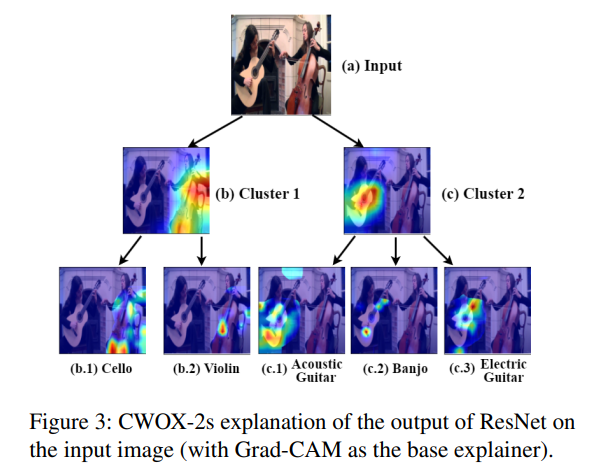
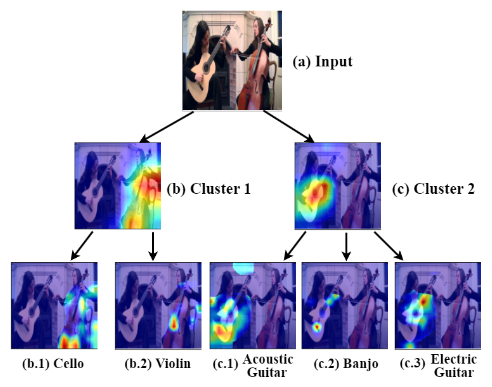
Images aligned

diff --git a/ml.html b/ml.html
@@ -109,23 +109,37 @@
         <div class="main-article">
             <h4>Contrasive Explanations for Deep Learning Models</h4>
             <h6>A New Paradigm in Explainable AI</h6>
-            <p>Recent advances in Explainable AI (XAI) have significantly impacted the way artificial intelligence systems are understood and trusted. As AI models, especially deep learning networks, become more complex and integral to critical decision-making processes, the need for transparency and interpretability has grown. One major development is the enhancement of post-hoc explanation methods, such as SHAP (Shapley Additive Explanations) and LIME (Local Interpretable Model-agnostic Explanations). These methods help interpret model outputs by approximating the importance of input features, allowing users to understand which factors contribute most to the decisions made by the AI.
+            <p>A picture is worth more than a thousand words, but what if you could understand the words behind the picture? Recently, I came across an interesting paper, <a href="https://proceedings.mlr.press/v216/xie23a/xie23a.pdf">Two-Stage Holistic and Contrastive Explanation of Image Classification</a> in the field of Explainable AI. 
+            The paper talks about how using contrastive explanations and second order gradient information, we can have better explanations for Deep Learning models, specially in multi-object and multi-class settings.</p>
+            <img src="assets/swox-cwox.png" alt="SWOX-CWOX" class="responsive-img-1" ALIGN=”left” max-width="80%" height="auto">
+            <figcaption>Fig 1: Explanations of the outputs of GoogleNet on two
+                input images: (b.1-2) Grad-CAM is applied to each top
+                output class separately (SWOX); (c.1-2) The top output
+                classes are contrasted against each other (CWOX).</figcaption>
+            <p>
+                First order Gradient based methods such as Grad-CAM, LIME, SHAP, etc. have been widely used for explaining deep learning models. These methods provide insights into the model's decision-making process by highlighting the most relevant parts of the input data. However, they often lack contrastive explanations, which compare the model's predictions for different classes or inputs. Contrastive explanations are essential for understanding why a model <em>chooses class A and not class B</em>. The paper introduces a novel framework called Contrastive Weighted Output eXplanation (CWOX) that generates contrastive explanations by leveraging second-order gradient information. CWOX provides a more holistic view of the model's decision-making process, enabling users to understand not only what the model predicts but also why it makes those predictions.
             </p>
-            <p>Another key advancement in XAI is the integration of interpretability directly into model design, often referred to as inherently interpretable models. Unlike post-hoc methods that explain a model after it has made a prediction, inherently interpretable models are designed to be understandable from the outset. Examples include decision trees and generalized additive models (GAMs), which offer a clear and intuitive relationship between inputs and outputs. Recent research has focused on making these models as accurate and scalable as their opaque counterparts, ensuring that transparency does not come at the cost of performance.
-            </p>
-            <img src="assets/cwox.png" alt="CWOX" class="responsive-img">
+            
+            <img src="assets/cwox.png" alt="CWOX" class="responsive-img-2" ALIGN="right" max-width="80%" height="auto">
+            <figcaption>Fig 2: CWOX-2s explanation of the output of ResNet on
+                the input image (with Grad-CAM as the base explainer).</figcaption>
             <p>The field has also seen progress in explainability for deep learning models, particularly through techniques like attention mechanisms and saliency maps. Attention mechanisms, initially popularized in natural language processing, highlight which parts of the input data the model is focusing on when making a prediction. Saliency maps visualize the areas in an image that most influence the model’s decision, providing insights into the model's behavior in computer vision tasks. These techniques make it easier to debug models and ensure they are learning the right patterns from the data.
             </p>
             <p>    
                 In addition to technical advancements, there is a growing emphasis on the human aspect of XAI. Researchers are increasingly considering the end-user's perspective, ensuring that explanations are not only technically sound but also comprehensible and actionable for non-experts. This has led to the development of user-centered design principles for XAI, aiming to tailor explanations to the specific needs of different user groups, from engineers to business stakeholders. Interactive visualization tools are being created to help users explore and understand AI models dynamically.
             </p>
+            <img src="assets/latentcwox.png" alt="Latent CWOX" class="responsive-img">
+            <figcaption>Fig 3: A part of the latent tree model built from the outputs of ResNet50 on ImageNet training examples. Solid lines are
+                direct connections, and dashed lines are indirect connections with intermediate nodes removed. Images of the classes are
+                displayed for visual reference. They are not part of the model. The tree reveals co-occurrence patterns of class labels in
+                classification outputs.</figcaption>
             <p>    
                 Finally, regulatory and ethical considerations are driving the push for explainable AI. Laws like the General Data Protection Regulation (GDPR) in Europe mandate transparency in automated decision-making systems, compelling organizations to adopt XAI methods. Ethical AI frameworks stress the importance of accountability, fairness, and transparency, recognizing that explainability is crucial for ensuring that AI systems are trustworthy and do not inadvertently reinforce biases. As a result, explainable AI is not just a technical challenge but a multidisciplinary endeavor, requiring collaboration between technologists, ethicists, and policymakers to build AI systems that are both powerful and transparent.</p>
             <!-- <video class="responsive-video" controls>
                 <source src="" type="video/mp4">
                 Your browser does not support the video tag.
             </video> -->
-            <iframe src="https://www.youtube.com/watch?v=Yg3q5x7yDeM&pp=ygUOZXhwbGFpbmFibGUgYWk%3D" frameborder="0" allow="accelerometer; autoplay; clipboard-write; encrypted-media; gyroscope; picture-in-picture" allowfullscreen></iframe>
+            <!-- <iframe src="https://www.youtube.com/watch?v=Yg3q5x7yDeM&pp=ygUOZXhwbGFpbmFibGUgYWk%3D" frameborder="0" allow="accelerometer; autoplay; clipboard-write; encrypted-media; gyroscope; picture-in-picture" allowfullscreen></iframe> -->
         </div>
 
         <div class="upvote">
